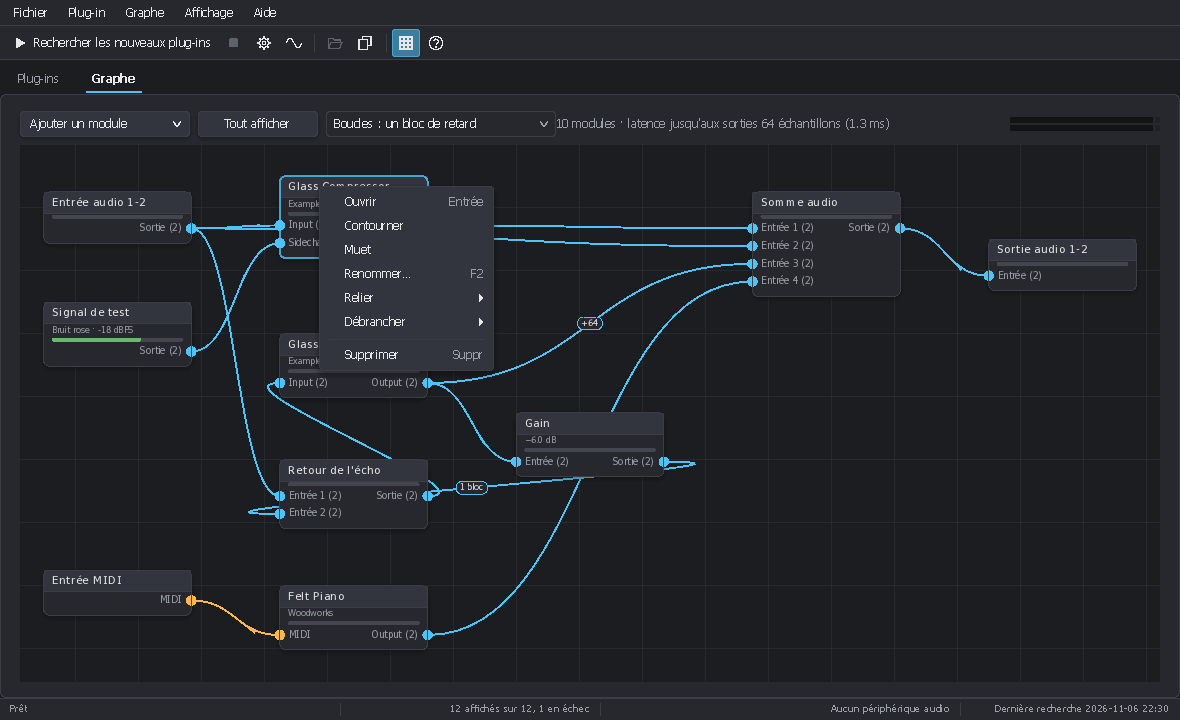
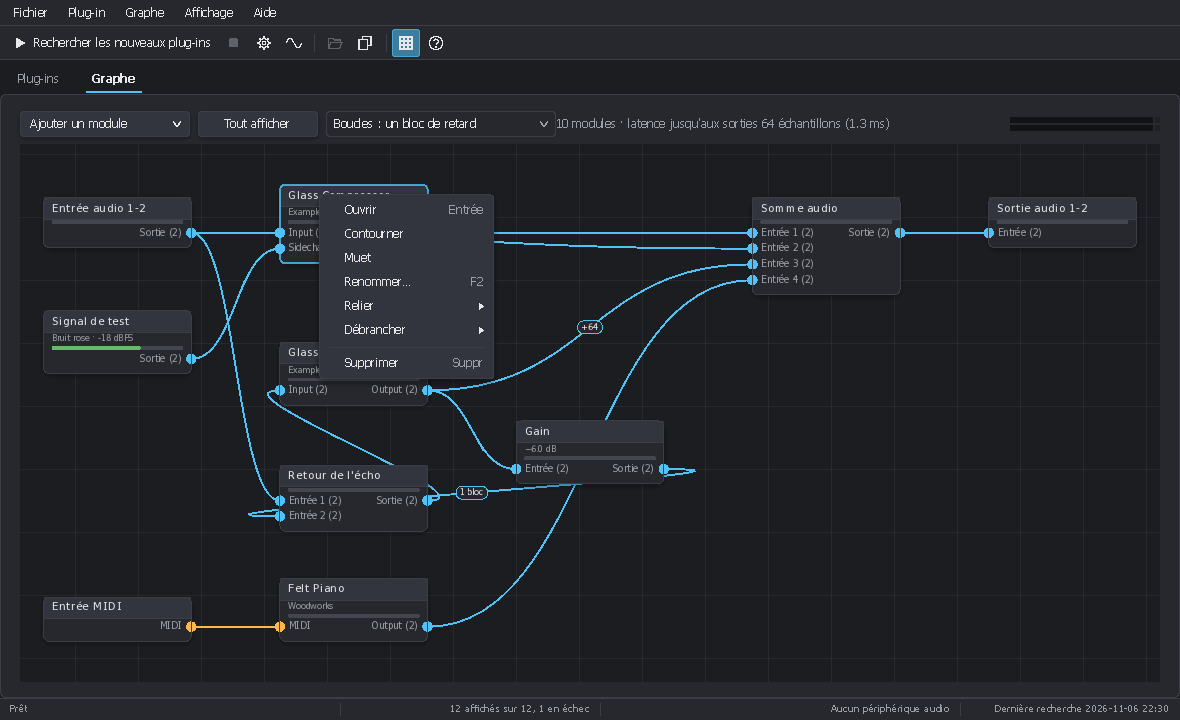
Plug-in Host: modules snap by their first connector
Modules added to the graph (plug-ins, modules of the menu, the default
graph of New graph) are snapped on the grid by their first connector,
like the modules moved by the mouse, so the cables between aligned
modules are straight. The sample graph of the snapshots is aligned that
way; guide and images updated.

Claude-Session: https://claude.ai/code/session_01FvvQE8sPXtbpejVhRebVBN

diff --git a/tools/PluginHost.Desktop/Program.cs b/tools/PluginHost.Desktop/Program.cs
@@ -1,4 +1,4 @@
-// 2026/11/08 12:00:00 UTC - PluginUI
+// 2026/11/08 13:07:00 UTC - PluginUI
 // SPDX-FileCopyrightText: 2026 asm8086
 // SPDX-License-Identifier: MIT
 
@@ -158,6 +158,7 @@ internal static class Snapshots
         main.Tabs.SelectedIndex = 1;
         Settle(host);
         main.Graph.Sync();
+        main.Graph.SnapToConnectors();
         main.Graph.Editor.ZoomToFit();
         var compressor = main.Graph.Graph.Nodes.First(n => n.DisplayTitle == "Glass Compressor");
         main.Graph.Editor.Select(main.Graph.Editor.Nodes.Where(n => ReferenceEquals(n.Tag, compressor)));
@@ -202,10 +203,10 @@ internal static class Snapshots
         var delay = Add(new PluginNode(new SnapshotPlugin("Glass Delay", "Example Audio")), 272, 192);
         var feedback = Add(new GainNode { GainDb = -6 }, 512, 272);
         var loop = Add(new AudioSumNode { Title = L.T("Delay feedback", "Retour de l'écho") }, 272, 320);
-        var midi = Add(new MidiInputNode(), 32, 432);
-        var piano = Add(new PluginNode(new SnapshotPlugin("Felt Piano", "Woodworks", instrument: true)), 272, 448);
+        var midi = Add(new MidiInputNode(), 32, 448);
+        var piano = Add(new PluginNode(new SnapshotPlugin("Felt Piano", "Woodworks", instrument: true)), 272, 432);
         var sum = Add(new AudioSumNode { InputCount = 4 }, 752, 48);
-        var output = Add(new AudioOutputNode(), 992, 96);
+        var output = Add(new AudioOutputNode(), 992, 48);
         void Connect(GraphNode from, string outKey, GraphNode to, string inKey) => graph.Connect(from.FindOutput(outKey)!, to.FindInput(inKey)!);
         Connect(input, "out", compressor, "in0");
         Connect(tone, "out", compressor, "in1");

diff --git a/tools/PluginHost.Desktop/GraphView.cs b/tools/PluginHost.Desktop/GraphView.cs
@@ -1,4 +1,4 @@
-// 2026/11/08 12:57:00 UTC - PluginUI
+// 2026/11/08 13:07:00 UTC - PluginUI
 // SPDX-FileCopyrightText: 2026 asm8086
 // SPDX-License-Identifier: MIT
 
@@ -373,6 +373,7 @@ internal sealed class GraphView : ITickable
         if (mainOut is not null && freeOutput is not null) Graph.Connect(mainOut, freeOutput.Inputs[0]);
         IsModified = true;
         Sync();
+        SnapToConnectors(node);
         if (_views.TryGetValue(node, out var view))
         {
             Editor.Select([view]);
@@ -389,7 +390,20 @@ internal sealed class GraphView : ITickable
         Graph.Add(node);
         IsModified = true;
         Sync();
+        SnapToConnectors(node);
         if (_views.TryGetValue(node, out var view)) Editor.Select([view]);
+    }
+
+    /// <summary>Snaps modules on the grid by their first connector (all modules when none is given), so that the cables between aligned modules are straight.</summary>
+    public void SnapToConnectors(params GraphNode[] nodes)
+    {
+        foreach (var node in nodes.Length == 0 ? Graph.Nodes : nodes)
+        {
+            if (!_views.TryGetValue(node, out var view)) continue;
+            Editor.Snap(view);
+            node.X = view.X;
+            node.Y = view.Y;
+        }
     }
 
     private void Place(GraphNode node, Point? at)
@@ -653,6 +667,7 @@ internal sealed class GraphView : ITickable
         FilePath = null;
         IsModified = false;
         Sync();
+        SnapToConnectors();
         Editor.ZoomToFit();
     }
 

diff --git a/docs/PLUGIN_HOST_FR.md b/docs/PLUGIN_HOST_FR.md
@@ -1,4 +1,4 @@
-<!-- 2026/11/08 13:04:00 UTC - PluginUI -->
+<!-- 2026/11/08 13:07:00 UTC - PluginUI -->
 
 # Hôte de plug-ins : PluginUI.Host et pluginhost
 
@@ -331,8 +331,9 @@ est dans le graphe, que sa fenêtre soit ouverte ou non.
   (Suppr ; les réglages d'un plug-in sont perdus, l'hôte demande donc confirmation).
 - **Vue** : barres de défilement quand le graphe dépasse la vue ; la molette fait défiler (Maj+molette de côté),
   Ctrl+molette zoome autour de la souris, le bouton du milieu (ou Alt+glisser) déplace la vue, **Tout afficher**
-  (Origine) ajuste le graphe. Les modules se déplacent sur une grille (Maj = librement) ; glissez sur un
-  endroit vide pour en sélectionner plusieurs, Ctrl+clic pour en ajouter un. Ctrl+Gauche / Ctrl+Droite sélectionnent le
+  (Origine) ajuste le graphe. Les modules se déplacent sur une grille qui tient leur premier connecteur
+  (Maj = librement), si bien que les câbles entre modules alignés sont droits ; glissez sur un endroit vide pour en
+  sélectionner plusieurs, Ctrl+clic pour en ajouter un. Ctrl+Gauche / Ctrl+Droite sélectionnent le
   module précédent ou suivant, les flèches déplacent la sélection.
 - **Fichiers de graphe** (menu Fichier) : **Nouveau graphe** (Ctrl+N : une entrée audio, une entrée MIDI et une sortie
   audio), **Ouvrir un graphe** (Ctrl+Maj+O), **Enregistrer le graphe** (Ctrl+S), **Enregistrer le graphe sous**

diff --git a/docs/PLUGIN_HOST.md b/docs/PLUGIN_HOST.md
@@ -1,4 +1,4 @@
-<!-- 2026/11/08 13:04:00 UTC - PluginUI -->
+<!-- 2026/11/08 13:07:00 UTC - PluginUI -->
 
 # Plug-in host: PluginUI.Host and pluginhost
 
@@ -316,8 +316,9 @@ window open or not.
   plug-in are lost, so the host asks first).
 - **View**: scroll bars when the graph is larger than the view; the wheel scrolls (Shift+wheel sideways), Ctrl+wheel
   zooms around the mouse, the middle button (or Alt+drag) pans, **Show all** (Home) fits the graph.
-  Modules move on a grid (Shift = free); drag on an empty place to select several, Ctrl+click to add one. Ctrl+Left /
-  Ctrl+Right select the previous or next module, the arrows move the selection.
+  Modules move on a grid that holds their first connector (Shift = free), so the cables between aligned modules are
+  straight; drag on an empty place to select several, Ctrl+click to add one. Ctrl+Left / Ctrl+Right select the
+  previous or next module, the arrows move the selection.
 - **Graph files** (File menu): **New graph** (Ctrl+N: an audio input, a MIDI input and an audio output), **Open a
   graph** (Ctrl+Shift+O), **Save the graph** (Ctrl+S), **Save the graph as** (Ctrl+Shift+S). A `.pluginui-graph` file
   keeps the modules, their places, the cables and the state of each plug-in. A plug-in that cannot be found when a
